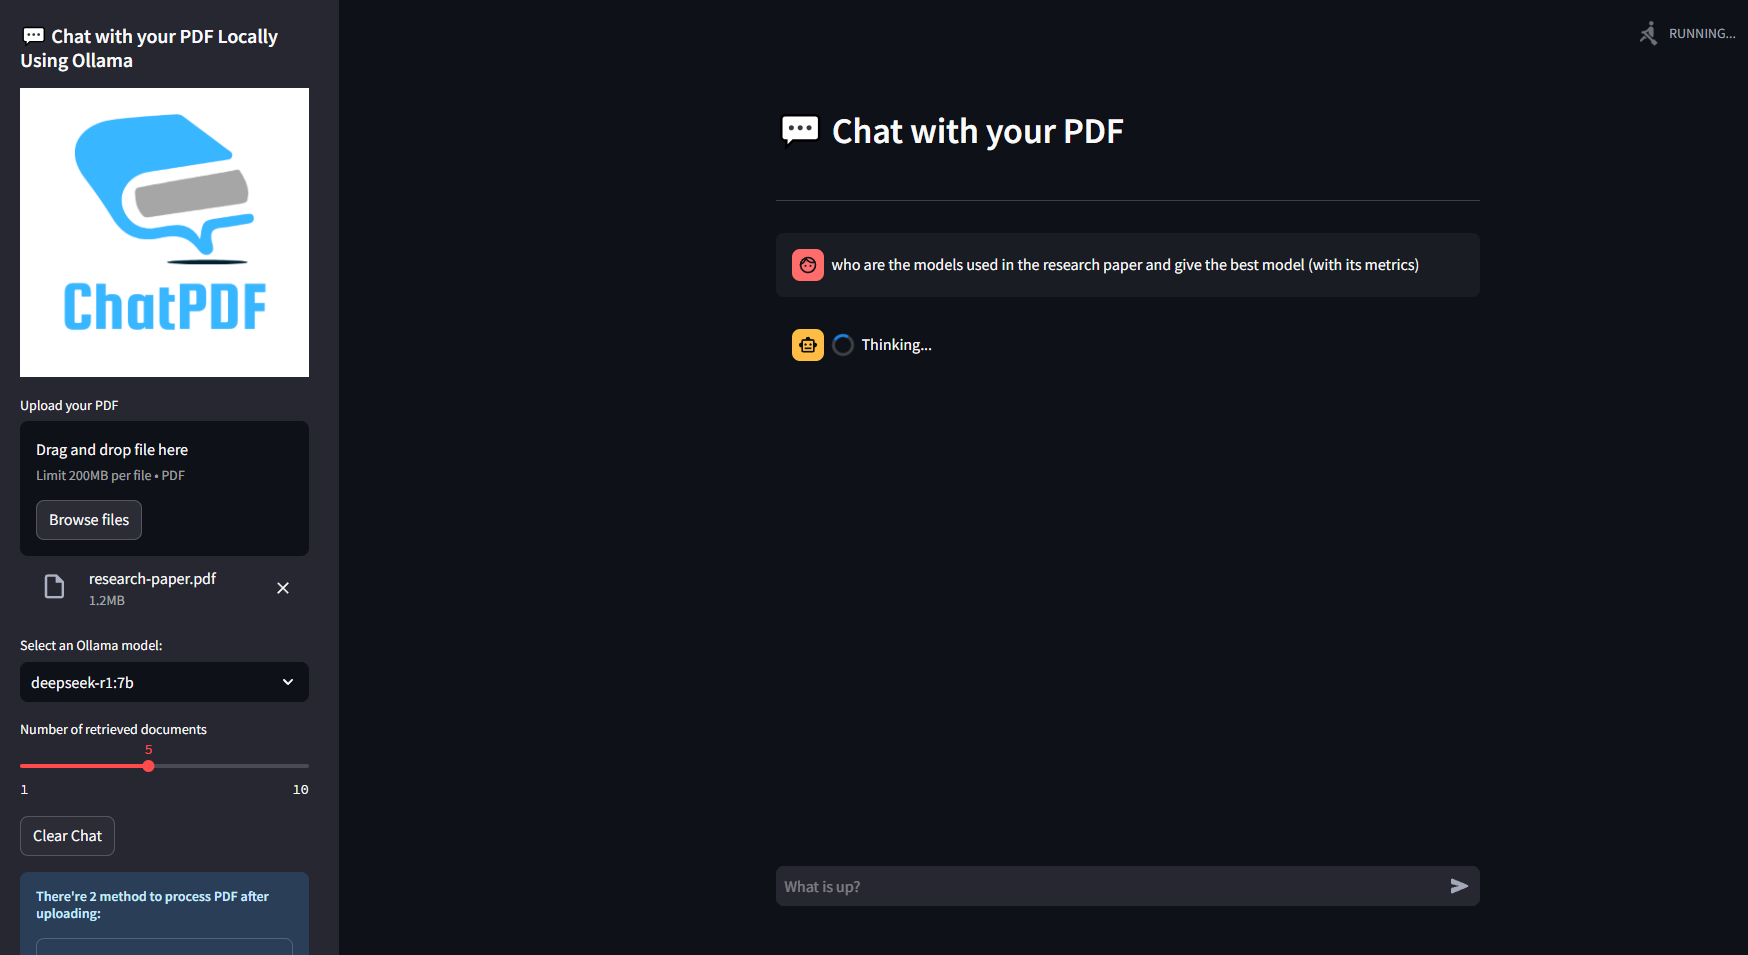
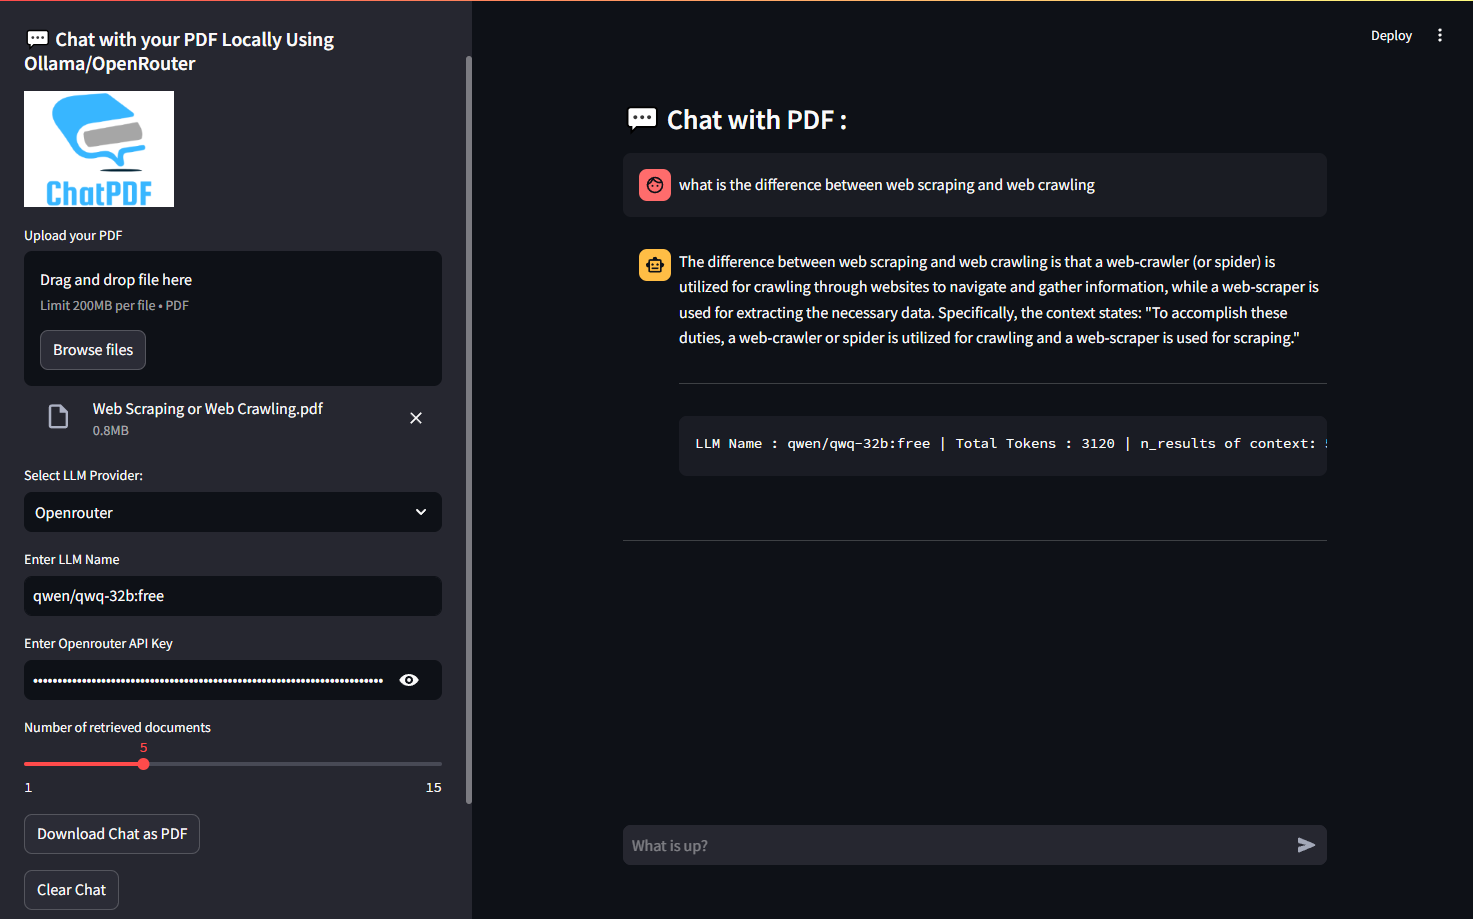
update app : update imgs, readme file and requirements

diff --git a/app.py b/app.py
@@ -168,7 +168,7 @@ with st.sidebar:
                     text = convert2md._load_file(markdown_path)
 
             # Split the text into chunks
-            text_splitter = RecursiveCharacterTextSplitter(chunk_size=2000, chunk_overlap=200)
+            text_splitter = RecursiveCharacterTextSplitter(chunk_size=1024, chunk_overlap=150)
             chunks = text_splitter.split_text(text)
 
             # Convert chunks into Document objects

diff --git a/README.md b/README.md
@@ -1,4 +1,4 @@
-# **ChatPDF** : Chat with Your PDF Locally 🤖
+# **ChatPDF** : Chat with PDF Locally 🤖
 
 ## Overview
 
@@ -28,9 +28,10 @@
 - **Customizable Retrieval**: Adjust the number of retrieved results (`n_results`) for context.
 - **Memory Management**: Easily clear vector store and retrievers to reset the system.
 - **Question Answering**: Use the processed PDF content to answer queries through a chatbot interface.
-- **Model Selection**: Choose from a list of available Ollama models for different tasks.
-- **Text Retrieval**: Retrieve relevant documents from the database based on the user's query.
+- **Model Selection**: Choose between model provider (Ollama or Openrouter), than choose an available Ollama LLM or enter OpenRouter LLM Name with API Key.
+- **Text Retrieval**: Retrieve relevant documents from the database based on the user's query and Re-Rank the retrieved documents using BM25, semantic similarity, Recomp-like coverage, and context filtering.
 - **Chat Interface**: Easy-to-use chat interface for interacting with the PDF content.
+- **Download the chat conversion**.
 
 ## 🚀 Getting Started
 
@@ -53,7 +54,7 @@
    - Pull required models:
      ```bash
      ollama pull mxbai-embed-large:latest  # required
-     ollama pull deepseek-r1:7b  # or your preferred model
+     ollama pull qwen2.5:latest  # or your preferred model
      ```
 
 ### 🎮 Running the Application
@@ -66,7 +67,7 @@ Run the app using the following command:
 
 Then open your browser to `http://localhost:8501` (it will open automatically)
 
-![](./imgs/img0.png)
+![](./imgs/App.png)
 
 ## Project Structure
 
@@ -77,7 +78,7 @@ Then open your browser to `http://localhost:8501` (it will open automatically)
 ├── md_convertor.py         # PDF to Markdown Convertor
 ├── requirements.txt        # List of required Python dependencies
 ├── imgs/                   # some screanshots, logo and video
-├── PDF_chroma_db/          # Local persistent vector store (auto-generated)
+├── PDF_ChromaDB/           # Local persistent vector store (auto-generated)
 └── README.md               # Project documentation
 ```
 
@@ -90,8 +91,9 @@ Then open your browser to `http://localhost:8501` (it will open automatically)
    - **Simple Processing**: Extracts the text directly from the PDF (faster).
    - **Advanced Processing**: Converts the PDF into Markdown format using OCR and extracts the text (slower).
 
-2. **Model Selection**:  
-   Once the PDF is processed, the app will use an Ollama language model for text analysis and question answering. You can select a model from a list of available Ollama models.
+2. **LLM Provider Selection**: Once the PDF is processed,Select you llm provider
+   - OLLAMA : Running Loccaly, You can select a model from a list of available Ollama models.
+   - OPENROUTER : using API, get API Key from `https://openrouter.ai/`
 
 3. **Query the Content**:
    After the processing is complete, you can ask questions based on the content of the PDF. The app will use the Chroma vector database to search for relevant information and generate an accurate response using the selected Ollama model.
@@ -102,8 +104,6 @@ Then open your browser to `http://localhost:8501` (it will open automatically)
 ### This is the Architecture of the APP
 
 ![](./imgs/Pre-processing.png)
-
----
 
 ![](./imgs/img6.png)
 
@@ -123,44 +123,60 @@ Then open your browser to `http://localhost:8501` (it will open automatically)
 4. **Select Model**: Choose the Ollama model to generate the answers.
 5. **Customizable Retrieval**: and you can adjust the number of retrieved results (`n_results`) for context.
 6. **Ask Questions**: After processing is complete, ask questions related to the content of the PDF.
-7. **Clear Chat**: Clear the chat history using the "Clear Chat" button.
+7. **Download conversion**: Download the chat conversion using the "Download" button.
+8. **Clear Chat**: Clear the chat history using the "Clear Chat" button.
 
 ### Some Screenshots
 
-![](./imgs/img1.png)
+### Sidebar
+
+- Full Screen :
+
+![](./imgs/sidebar.png)
+
+- PDF Processing :
+
+![](./imgs/pdf_processing.png)
 
 ---
 
-![](./imgs/img2.png)
+- LLM Providers : Ollama
 
----
+![](./imgs/provider1.png)
+![](./imgs/provider1-1.png)
+
+- LLM Providers : OpenRouter
+
+![](./imgs/provider2.png)
+
+#### Chat Interface
 
 ![](./imgs/img3.png)
 
----
-
-![](./imgs/img5.png)
+![](./imgs/chat1.png)
 
 ## Requirements
 
 - Python 3.8+
 - Pip
 - Ollama models installed via `ollama pull`
+- Open Router API Key
 - Marker library for PDF to Markdown conversion
 - Chroma for storing vector embeddings
 
 ## Troubleshooting
 
+- if you want to use Openrouter, get the API Key, put it in '.env' file or in input text in UI.
+- in '.env' file, set your OpenRouter API Key:
+
+```bash
+OPENROUTER_API_KEY='OpenRouter API Key'
+```
+
 - make sure that ollama is running locally.
 - If no Ollama models are found, ensure that Ollama is properly installed and models are pulled using `ollama pull <model_name>`.
 - Ensure that the PDF file uploaded is valid and can be processed by the app.
 - The chatbot depends on your performence of your labtop, so please be patient!
-
-## Additional Features to Improve to App
-
-- Enable Multi-Query Handling: Allow batch queries to improve performance.
-- Implement Caching for LLM Responses: Store responses in a dictionary with query as the key to avoid redundant computation.
-
 
 ---
 
